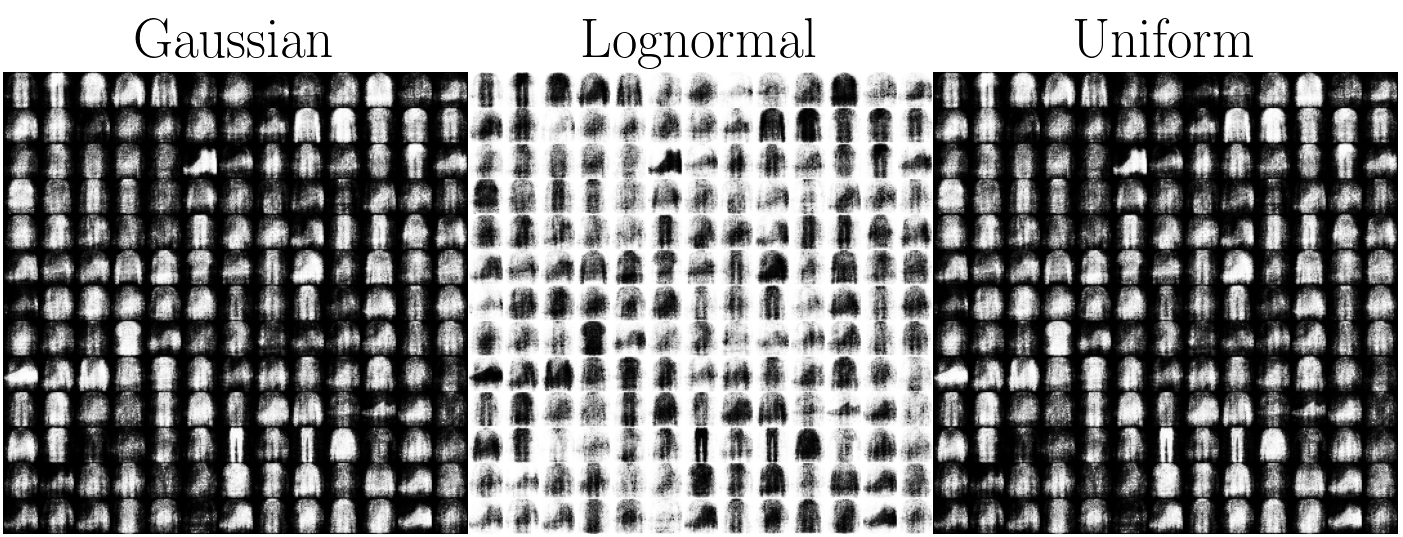
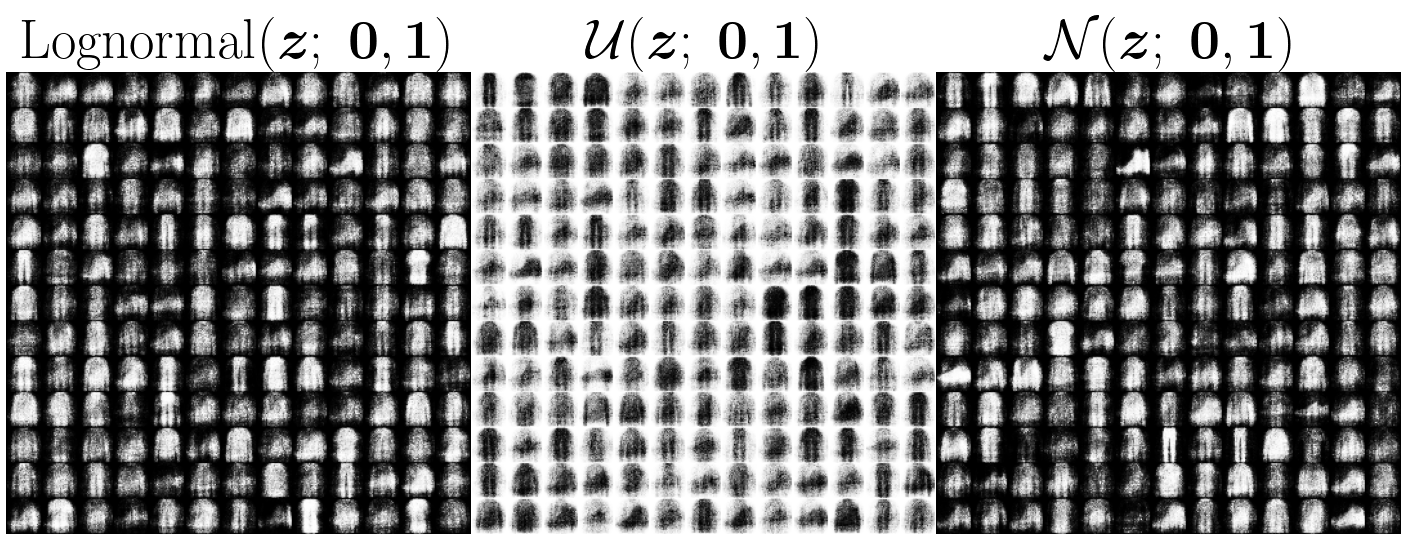
ah whoops. fixed

diff --git a/plotting/results/plot_priors.py b/plotting/results/plot_priors.py
@@ -12,12 +12,13 @@ plt.rcParams.update({
 
 # File paths to HDF5 files
 file_paths = [
-    'logs/gaussian_RBF/DARCY_FLOW_1/real_images.h5',
-    'logs/gaussian_RBF/DARCY_FLOW_1/generated_images.h5',
-    'logs/gaussian_FFT/DARCY_FLOW_1/generated_images.h5',
+    'logs/gaussian_RBF/MNIST_1/generated_images.h5',
+    'logs/lognormal_RBF/MNIST_1/generated_images.h5',
+    'logs/uniform_RBF/MNIST_1/generated_images.h5',
 ]
 
-titles = ['True Samples', 'RBF', 'FFT']
+# titles = ['Gaussian', 'Lognormal', 'Uniform']
+titles = [r"$\text{Lognormal}(\bm{z}; \; \bm{0}, \bm{1})$", r"$\mathcal{U}(\bm{z}; \; \bm{0}, \bm{1})$", r"$\mathcal{N}(\bm{z}; \; \bm{0}, \bm{1})$"]
 
 # Load generated images
 images = []
@@ -25,7 +26,7 @@ for file_path in file_paths:
     with h5py.File(file_path, 'r') as h5_file:
         images.append(h5_file['samples'][()])
 
-grid_size = (7, 7)  
+grid_size = (13, 13)  
 fig, axes = plt.subplots(grid_size[0], grid_size[1] * 3, figsize=(18, 6))
 
 for dataset_idx, image_set in enumerate(images):
@@ -39,14 +40,14 @@ for dataset_idx, image_set in enumerate(images):
         
         # Use inverted colormap for middle dataset
         if dataset_idx == 1:
-            ax.imshow(images, cmap='cividis')  # gray_r is inverted gray
+            ax.imshow(images, cmap='gray_r')  # gray_r is inverted gray
         else:
-            ax.imshow(images, cmap='viridis')
+            ax.imshow(images, cmap='gray')
             
         ax.axis('off')  
     
-    axes[0, dataset_idx * grid_size[1] + 3].set_title(titles[dataset_idx], fontsize=40, pad=10)
+    axes[0, dataset_idx * grid_size[1] + 6].set_title(titles[dataset_idx], fontsize=40, pad=10)
 
 plt.subplots_adjust(wspace=0, hspace=0)
-plt.savefig('figures/results/RBFvsFFT_gaussian_7x7.png')
+plt.savefig('figures/results/mnist_priors_rbf_13x13.png')
 
